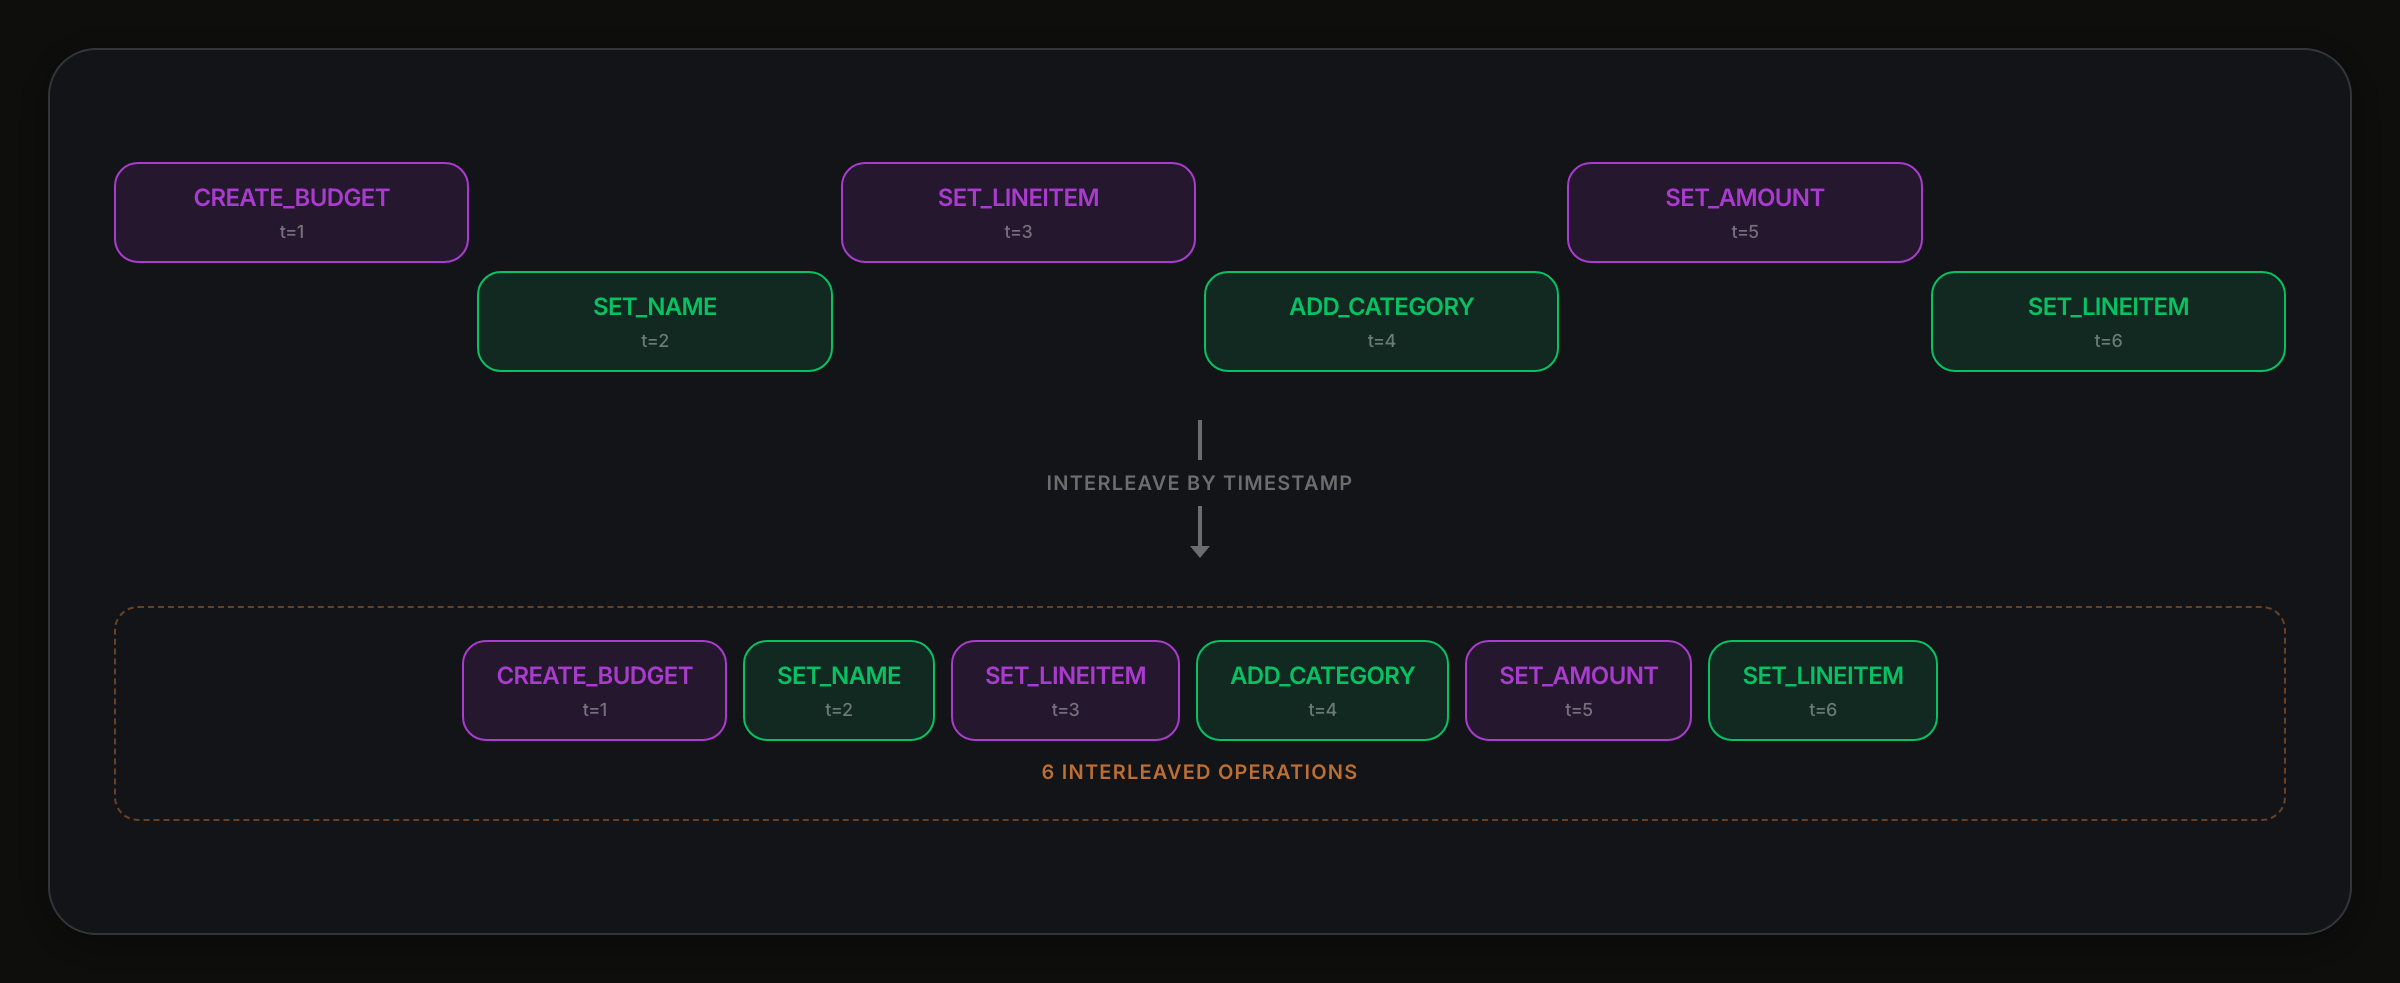
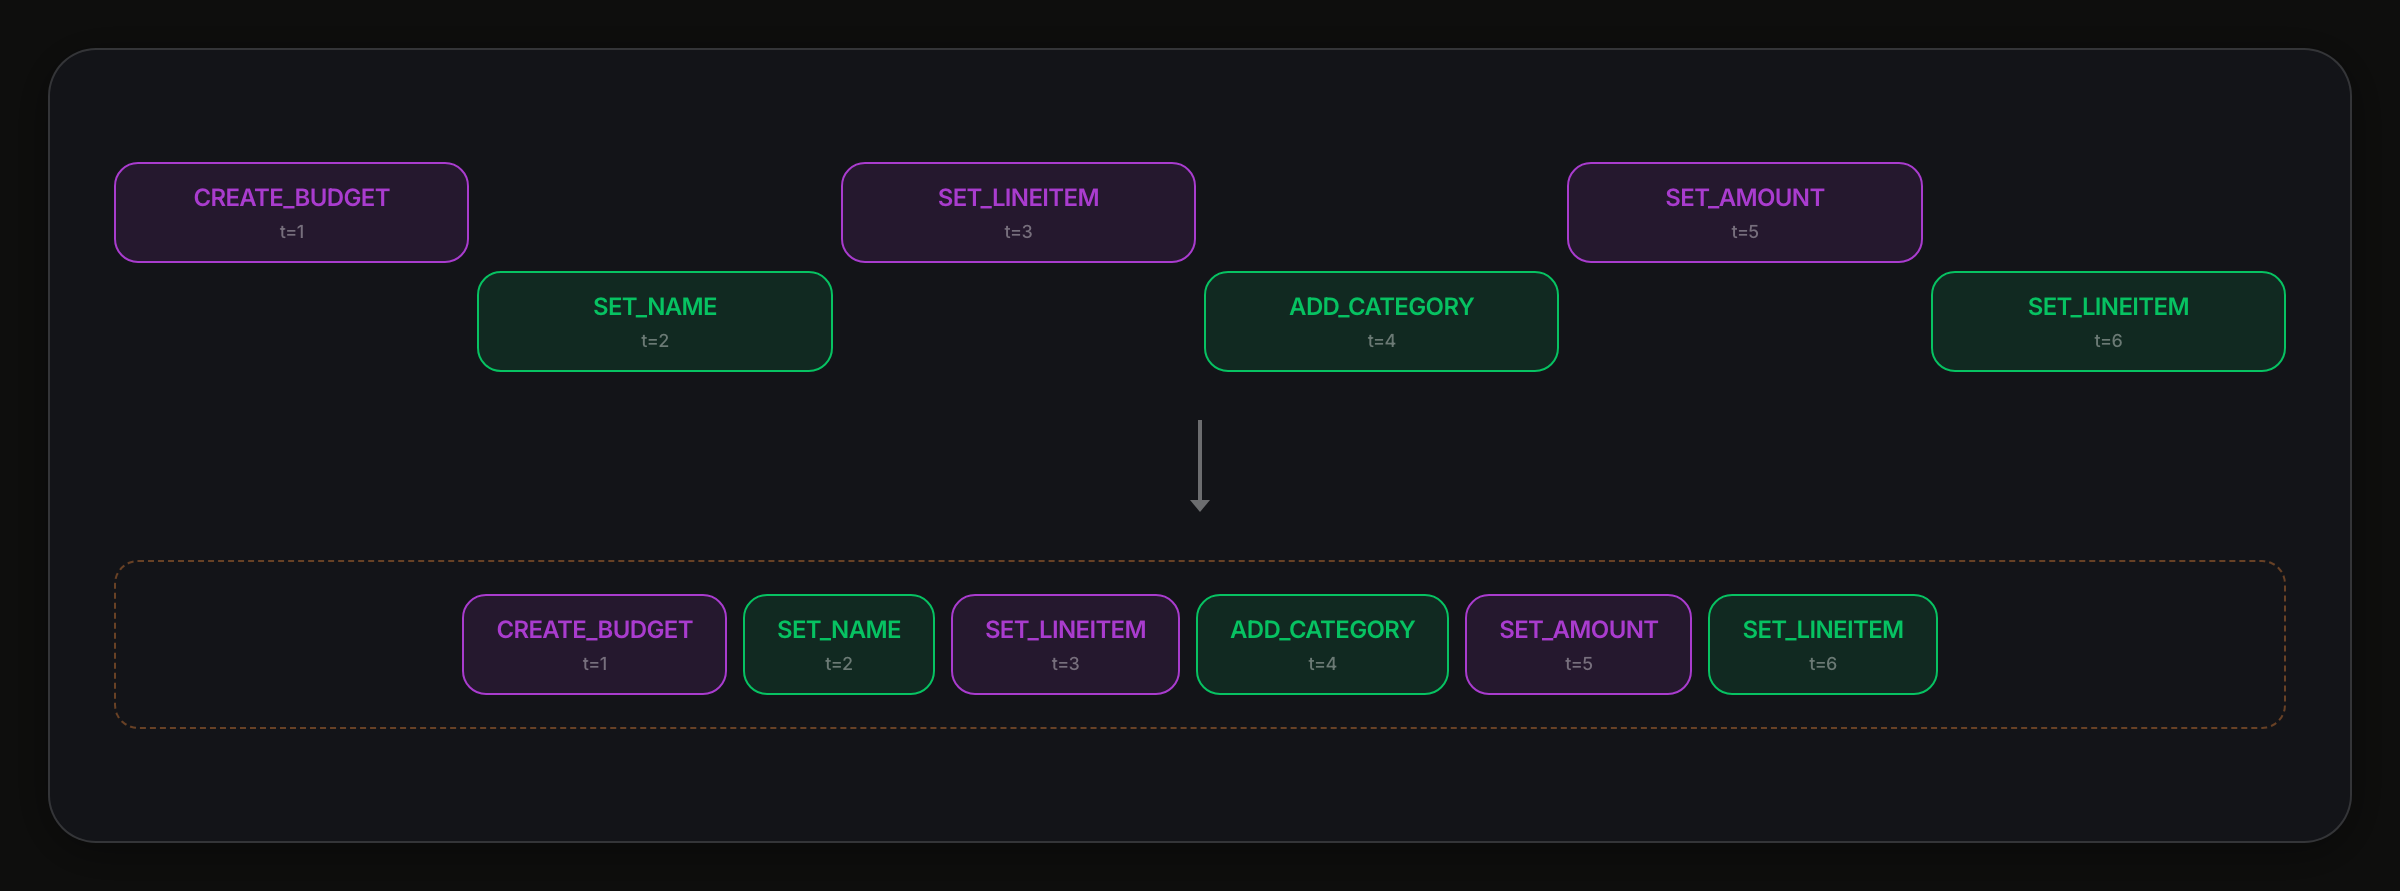
rebuild: drop interleaving notes from the action stream diagram

diff --git a/diagrams/pages/action-stream-interleaving.html b/diagrams/pages/action-stream-interleaving.html
@@ -59,14 +59,6 @@
       height: 20px;
       background: var(--text-muted);
     }
-    .arrow-down-label {
-      font-size: 10px;
-      font-weight: var(--font-weight-semibold);
-      color: var(--text-muted);
-      text-transform: uppercase;
-      letter-spacing: 0.06em;
-      margin: var(--space-xs) 0;
-    }
     .arrow-down-head {
       width: 0;
       height: 0;
@@ -79,16 +71,6 @@
       border: 1px dashed rgba(232, 134, 58, 0.4);
       border-radius: var(--radius-md);
       padding: var(--space-md);
-    }
-    .section-label {
-      font-size: 10px;
-      font-weight: var(--font-weight-semibold);
-      color: #e8863a;
-      text-transform: uppercase;
-      letter-spacing: 0.06em;
-      text-align: center;
-      margin-top: var(--space-sm);
-      opacity: 0.8;
     }
   </style>
 </head>
@@ -113,7 +95,6 @@
         <!-- Arrow -->
         <div class="arrow-down">
           <div class="arrow-down-line"></div>
-          <div class="arrow-down-label">interleave by timestamp</div>
           <div class="arrow-down-line"></div>
           <div class="arrow-down-head"></div>
         </div>
@@ -128,7 +109,6 @@
             <div class="box accent-purple">SET_AMOUNT <span class="ts">t=5</span></div>
             <div class="box accent-green">SET_LINEITEM <span class="ts">t=6</span></div>
           </div>
-          <div class="section-label">6 interleaved operations</div>
         </div>
 
       </div>
